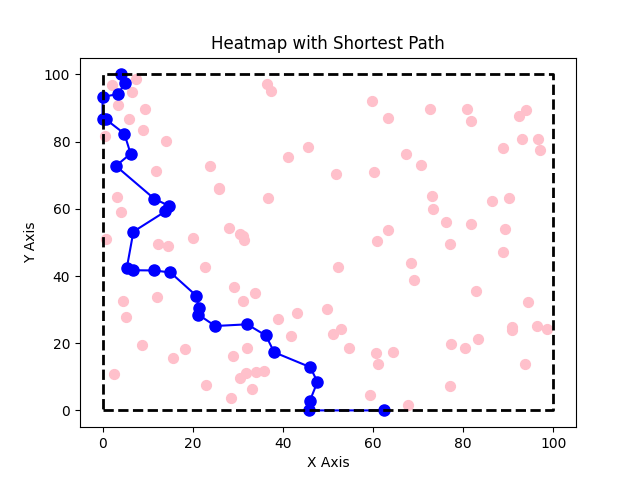
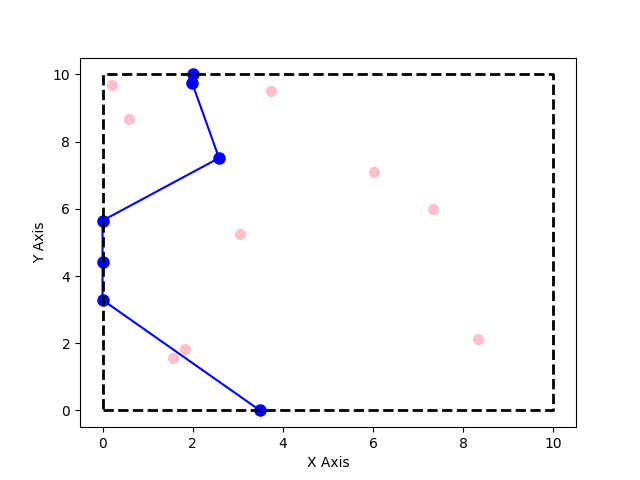
getting closer but Union find doesn't union correctly

diff --git a/voronoi_union/main.py b/voronoi_union/main.py
@@ -35,6 +35,18 @@ class UnionFind:
             self.parent[yr] = xr
             self.rank[xr] += 1
         return True
+    
+        """
+        # Representative of set containing i
+        xrep = self.find(x)
+        
+        # Representative of set containing j
+        yrep = self.find(y)
+        
+        # Make the representative of i's set
+        # be the representative of j's set
+        self.parent[xrep] = yrep
+        """
 
 def cost_function(a: np.array, b: np.array, c1: np.array, c2: np.array):
     """Cost function to determine the cost of crossing this edge
@@ -104,10 +116,8 @@ def compute_graph(vor: Voronoi, obst_coord: np.array, n_obst: int, x_length: flo
             
     middle_points = np.array(middle_points)
     
-    # Sort by column index 1 (second column)
+    # Sort by column by best graph (i.e. highest score)
     middle_points = middle_points[np.argsort(middle_points[:, 2])[::-1]]
-    
-    print(middle_points)
     
     # Next step: store everything into a weightes CSR graph file
     
@@ -154,12 +164,16 @@ def union_find_optimal_path(middle_points: np.array, all_idx: np.array):
         middle_points (np.array): [description]
         all_idx (np.array): [description]
     """
-    n = len(all_idx)
-    uf = UnionFind(n)
+    n_nodes = len(all_idx)
+    uf = UnionFind(n_nodes)
     graph = defaultdict(list)
+    
+    print(middle_points[:,0:3])
+    print(all_idx)
 
+    n_edges = middle_points.shape[0]
     edge_idx = 0
-    while uf.find(0) != uf.find(n - 1) or edge_idx < n:
+    while uf.find(0) != uf.find(n_nodes - 1) or edge_idx < n_edges:
         
         i = int(middle_points[edge_idx, 0])
         j = int(middle_points[edge_idx, 1])
@@ -167,21 +181,24 @@ def union_find_optimal_path(middle_points: np.array, all_idx: np.array):
         i = np.where(all_idx == i)[0][0]    # TODO: this is expensive to always check and costs O(n), do transform the nodes first and retransform back
         j = np.where(all_idx == j)[0][0]
         
-        if uf.union(i, j):
-            graph[i].append(j)
-            graph[j].append(i)
+        uf.union(i, j)
+            
+        graph[i].append(j)
+        graph[j].append(i)
 
         edge_idx += 1
+        
+    print(edge_idx, n_edges)
 
-    assert edge_idx != n, "We did not find a path! (Impossible?!)"
+    assert edge_idx != n_edges, f"We did not find a path! (Impossible?!) {edge_idx} == {n_edges}"
     
-    # Building the path from Union Find
+    # Building the path from Union Find (BFS)
     visited = set()
     queue = deque([(0, [0])])
 
     while queue:
         node, path = queue.popleft()
-        if node == n-1:
+        if node == n_nodes-1:
             break
         visited.add(node)
         for neighbor in graph[node]:
@@ -208,9 +225,9 @@ def main():
     
     ##### Step 1: Defining the problem field
     
-    x_length = 100        # x coordinate of the cows field [m]
-    y_length = 100        # y coordinate of the cows field [m]
-    n_obst = 100          # number of obsticles (cows)
+    x_length = 10        # x coordinate of the cows field [m]
+    y_length = 10        # y coordinate of the cows field [m]
+    n_obst = 9          # number of obsticles (cows)
     
     obst_coord = np.random.rand(n_obst, 2) # 2d coordinates of the cows
     obst_coord[:,0] *= x_length
@@ -289,7 +306,6 @@ def main():
     plt.xlim(-margin, x_length + margin)
     plt.ylim(-margin, y_length + margin)
 
-    plt.title('Heatmap with Shortest Path')
     plt.xlabel('X Axis')
     plt.ylabel('Y Axis')
     plt.savefig('heatmap2.png')
